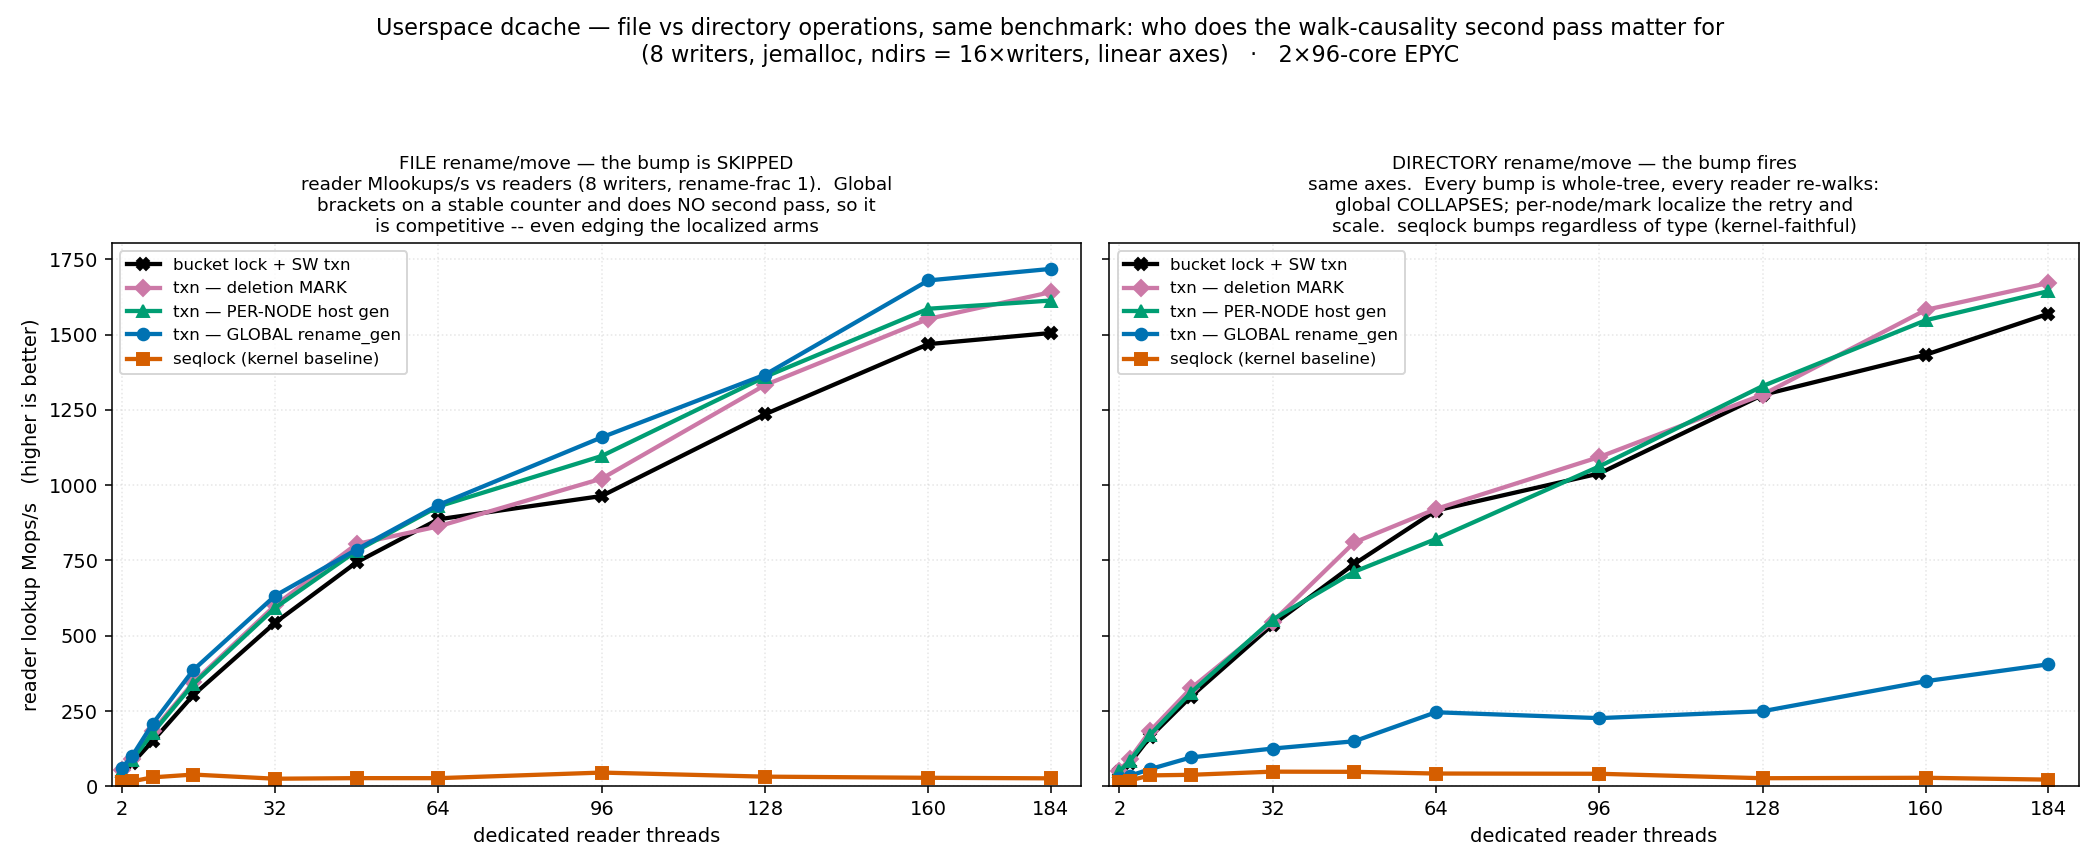
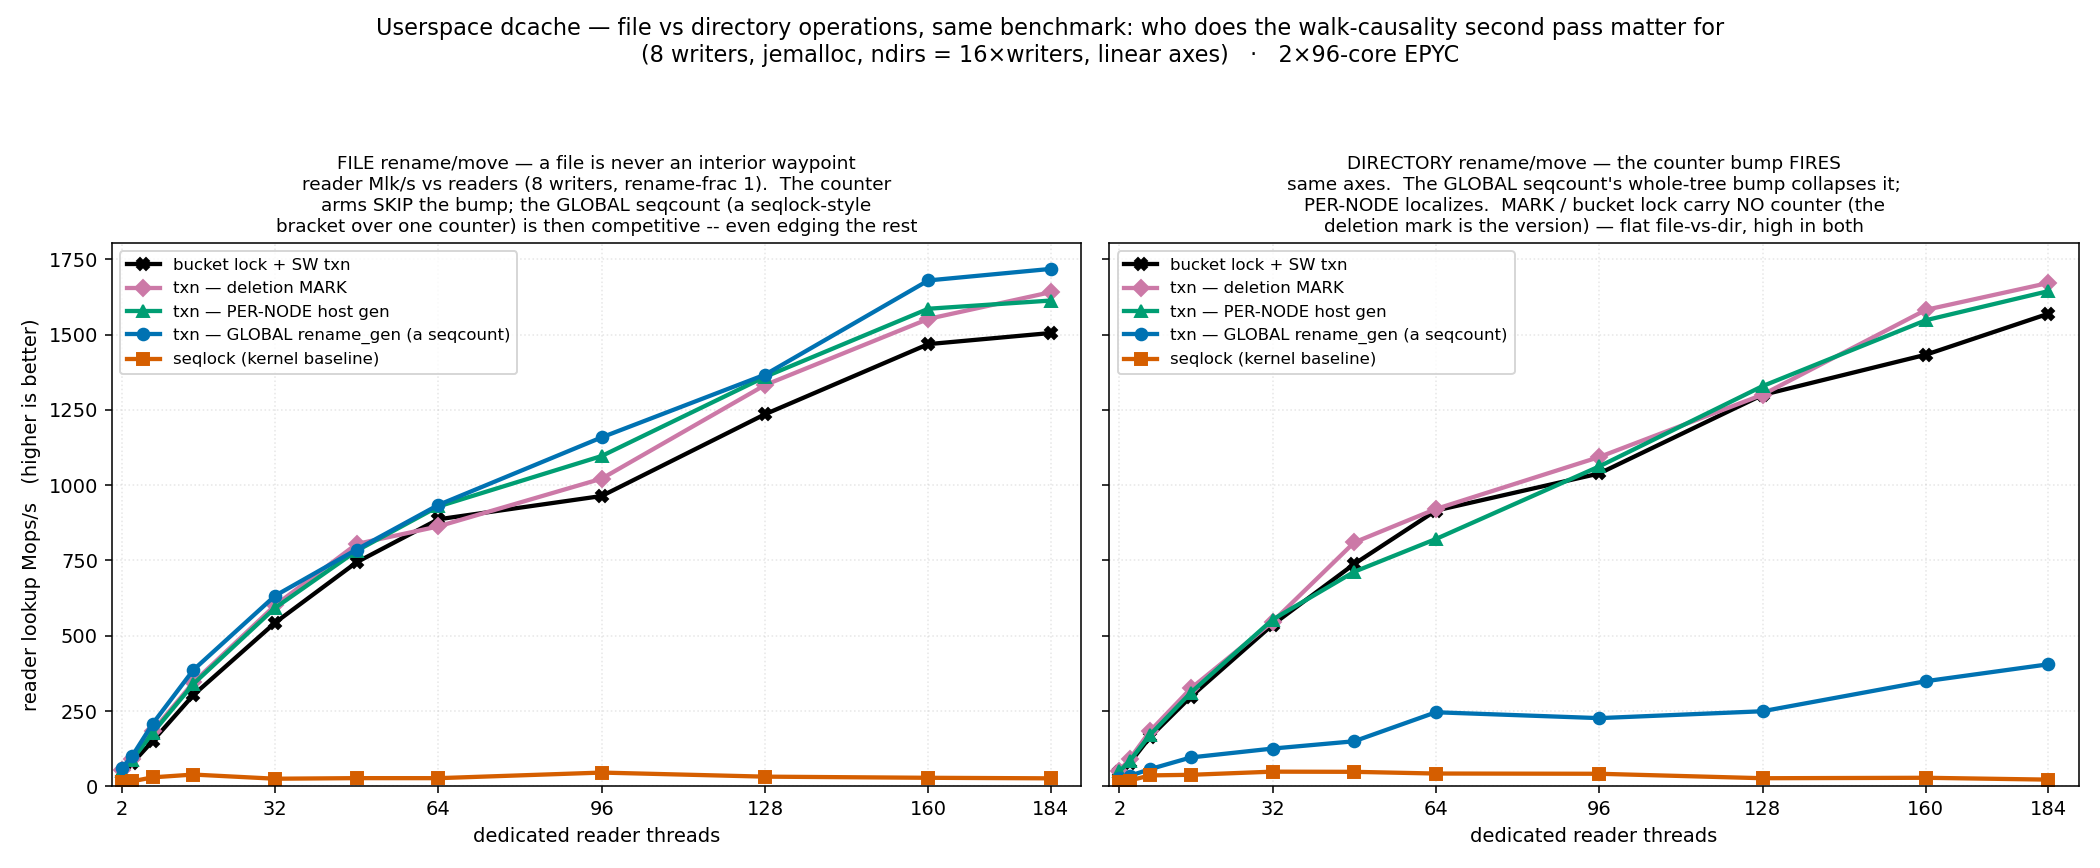
dcache optype figure: the MARK/bucket-lock arms carry no counter; name the global seqcount
Two title/label fixes:
- the file/dir 'bump skipped/fires' framing implied every localized arm bumps a
  walk-causality counter, but the MARK arm (and bucket lock, same reader) carries
  NO counter -- the hlist deletion mark IS the version (the structural edit is the
  signal).  So the file/dir distinction is a COUNTER-arm phenomenon (seqlock
  d_seq, global rename_gen, per-node host gen); MARK / bucket lock neither skip
  nor fire a bump and are FLAT across file vs dir (which the data shows).
- rename the vague 'global brackets' to name the mechanism: the GLOBAL arm is a
  global seqcount read seqlock-style (one whole-tree counter the reader brackets),
  in the docstring, both panel titles, and the legend label.

diff --git a/scripts/plot_dcache_optype.py b/scripts/plot_dcache_optype.py
@@ -2,17 +2,21 @@
 """Plot scripts/dcache_optype.csv -> figures/dcache_optype.png.
 
 File-operation vs directory-operation reader scaling, same benchmark, only the
-leaf TYPE differs (which flips the writer's walk-causality bump).  Two panels so
-the GLOBAL arm's crossover is the visible story:
+leaf TYPE differs -- which flips whether the writer's walk-causality COUNTER is
+bumped.  The file/dir distinction is a COUNTER-arm phenomenon:
 
-  left  (file ops, bump SKIPPED): global brackets on a stable whole-tree counter
-        and does no per-hop second pass, so it is competitive -- even edging the
-        localized arms, whose reader always pays the up-pass.
-  right (directory ops, bump):    every bump is tree-wide, every reader
-        re-walks, global collapses; per-node/mark localize and scale.
+  left  (file ops): a file is never an interior waypoint, so the counter arms
+        (seqlock d_seq, global rename_gen, per-node host gen) SKIP the bump.  The
+        GLOBAL arm is a global seqcount -- a seqlock-style bracket over one
+        whole-tree counter, no per-hop second pass -- so it is competitive here.
+  right (directory ops): the bump fires.  The GLOBAL seqcount's one whole-tree
+        bump makes every reader re-walk -> it COLLAPSES; PER-NODE localizes it.
 
-seqlock (kernel-faithful) bumps regardless of type, so its two panels match --
-the kernel makes no file/dir distinction.  Linear axes.
+The MARK and bucket-lock arms carry NO counter at all -- the hlist deletion mark
+IS the version (the structural edit is the signal) -- so they neither skip nor
+fire a bump; they are FLAT across file vs dir, high in both.  seqlock bumps d_seq
+regardless of type (kernel-faithful: no file/dir distinction), so its two panels
+match.  Linear axes.
 """
 import csv, collections, os
 import matplotlib
@@ -36,7 +40,7 @@ COLOR = {"seqlock": "#D55E00", "txn-global": "#0072B2",
 MARK = {"seqlock": "s", "txn-global": "o", "txn-pernode": "^", "txn-mark": "D",
         "bucketlock": "X"}
 ELAB = {"seqlock": "seqlock (kernel baseline)",
-        "txn-global": "txn — GLOBAL rename_gen",
+        "txn-global": "txn — GLOBAL rename_gen (a seqcount)",
         "txn-pernode": "txn — PER-NODE host gen",
         "txn-mark": "txn — deletion MARK",
         "bucketlock": "bucket lock + SW txn"}
@@ -55,13 +59,15 @@ fig, (ax1, ax2) = plt.subplots(1, 2, figsize=(15, 6.2), sharey=True)
 
 for lt, ax, title in (
     ("file", ax1,
-     "FILE rename/move — the bump is SKIPPED\nreader Mlookups/s vs readers "
-     "(8 writers, rename-frac 1).  Global\nbrackets on a stable counter and does "
-     "NO second pass, so it\nis competitive -- even edging the localized arms"),
+     "FILE rename/move — a file is never an interior waypoint\nreader Mlk/s vs "
+     "readers (8 writers, rename-frac 1).  The counter\narms SKIP the bump; the "
+     "GLOBAL seqcount (a seqlock-style\nbracket over one counter) is then "
+     "competitive -- even edging the rest"),
     ("dir", ax2,
-     "DIRECTORY rename/move — the bump fires\nsame axes.  Every bump is "
-     "whole-tree, every reader re-walks:\nglobal COLLAPSES; per-node/mark localize "
-     "the retry and\nscale.  seqlock bumps regardless of type (kernel-faithful)")):
+     "DIRECTORY rename/move — the counter bump FIRES\nsame axes.  The GLOBAL "
+     "seqcount's whole-tree bump collapses it;\nPER-NODE localizes.  MARK / bucket "
+     "lock carry NO counter (the\ndeletion mark is the version) — flat file-vs-dir, "
+     "high in both")):
     for e in ORDER:
         ys = [d[(lt, rd)].get(e, 0) for rd in RDs]
         ax.plot(RDs, ys, color=COLOR[e], marker=MARK[e], lw=2.2, ms=6,
